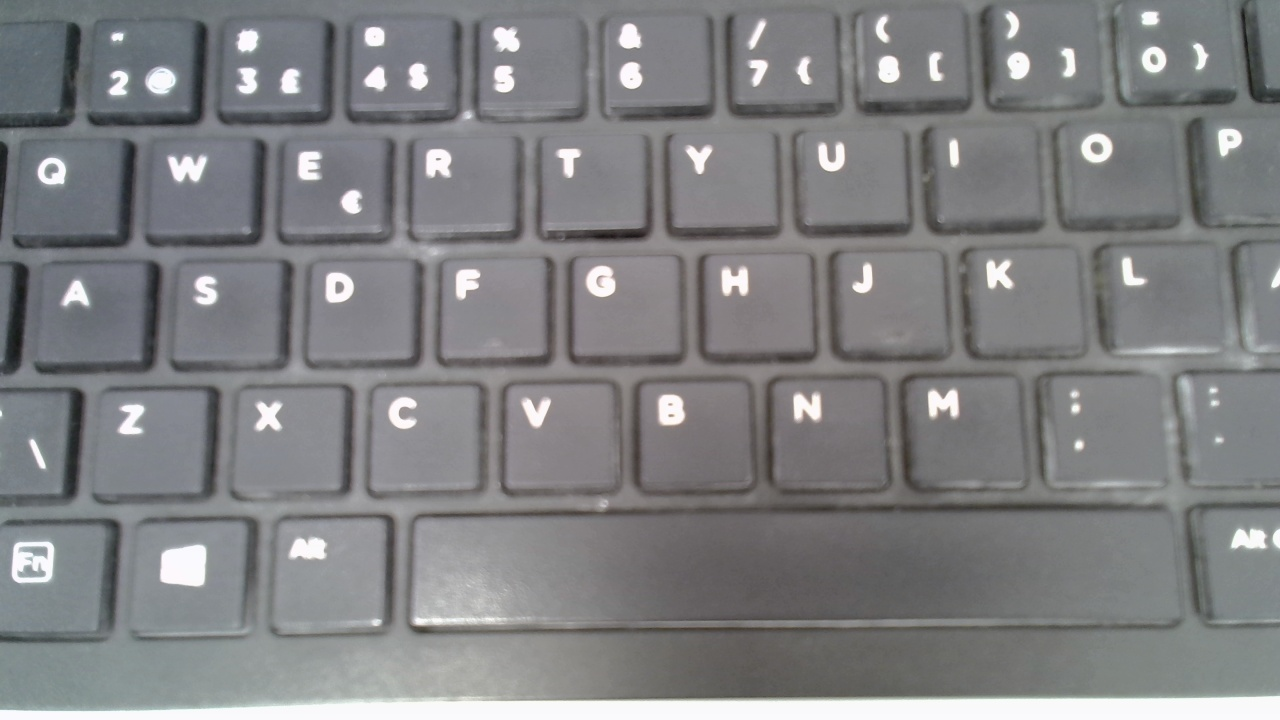
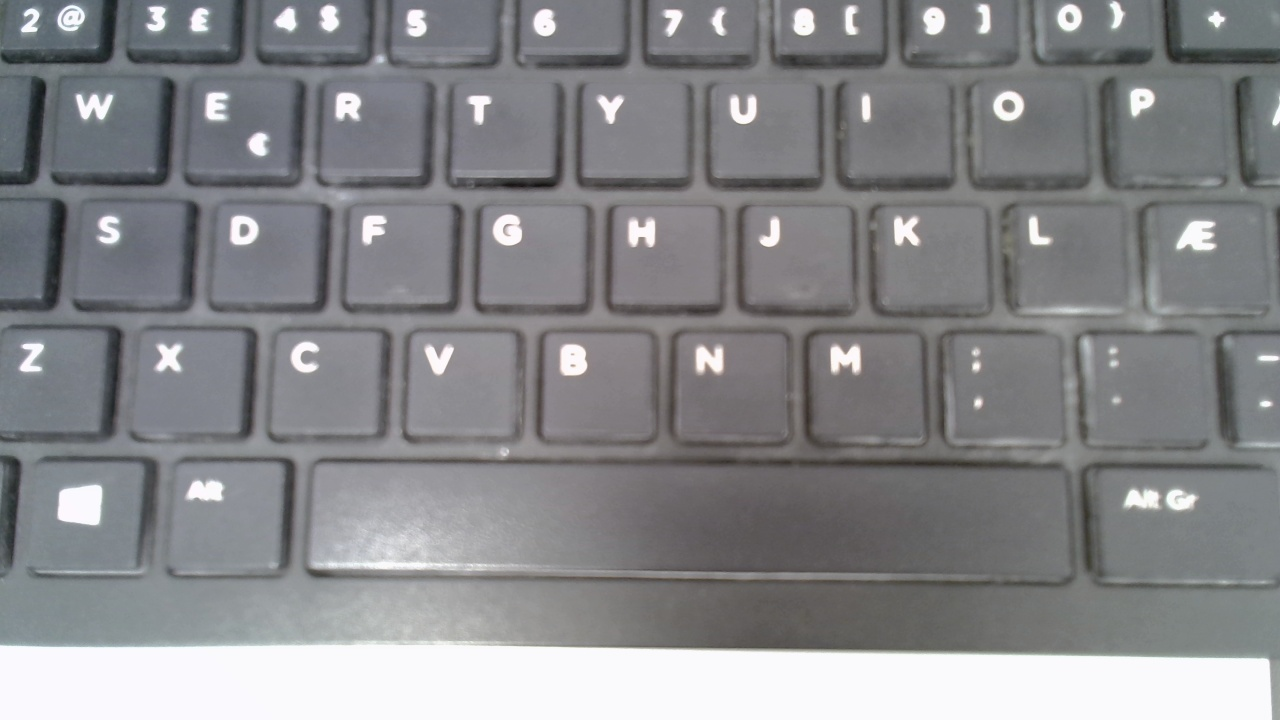
changes

diff --git a/Python/vision/type_hello_world_fast.py b/Python/vision/type_hello_world_fast.py
@@ -32,9 +32,10 @@ from type_hello_world import key_name, TEXT, COUNTDOWN_S  # noqa: E402
 
 LIFT_MM = 60.0                # height above the keys while moving from one key to the next
 ABOVE_MM = 30.0               # stop here above the key (exact), then press straight down
-PRESS_DEPTH_MM = 3.5          # how far below the key top the press goes
-EXTRA_DEPTH_MM = {"space": 2.5}   # the space bar is long and stiff: press it deeper
-PRESS_TIME_S = 0.3            # short press: the keyboard repeats a letter if it is held ~0.5 s
+PRESS_DEPTH_MM = 4          # how far below the key top the press goes
+EXTRA_DEPTH_MM = {"space": 4}   # the space bar is long and stiff: press it deeper
+PRESS_TIME_S = 0.23         
+   # short press: the keyboard repeats a letter if it is held ~0.5 s
 SAVE_DIR = os.path.join(HERE, "..", "images", time.strftime("typing_fast_%H%M%S"))
 
 

diff --git a/Python/vision/calibrate_homography.py b/Python/vision/calibrate_homography.py
@@ -24,7 +24,7 @@ from arm import set_torque, read_angles, hold_current_position, move_exact   # n
 # ------------------------------ Settings ---------------------------------------
 CAMERA_INDEX = 1
 LOOK_POSE = (0.0, 7.6, -70.0, -105.0)                 # [deg] the pose the photo is always taken from
-KEYS = ["W", "T", "O", "X", "B", "M"]                 # reference keys, spread around the "hello world" letters
+KEYS = ["W", "T", "O", "X", "B", "M", "space"]                 # reference keys, spread around the "hello world" letters
 MAX_Z_SPREAD = 5.0                                    # [mm] warn if the touched keys are not at the same height
 CALIB_FILE = os.path.join(HERE, "calib_homography.npz")
 PHOTO_FILE = os.path.join(HERE, "..", "images", "calib_photo.jpg")
